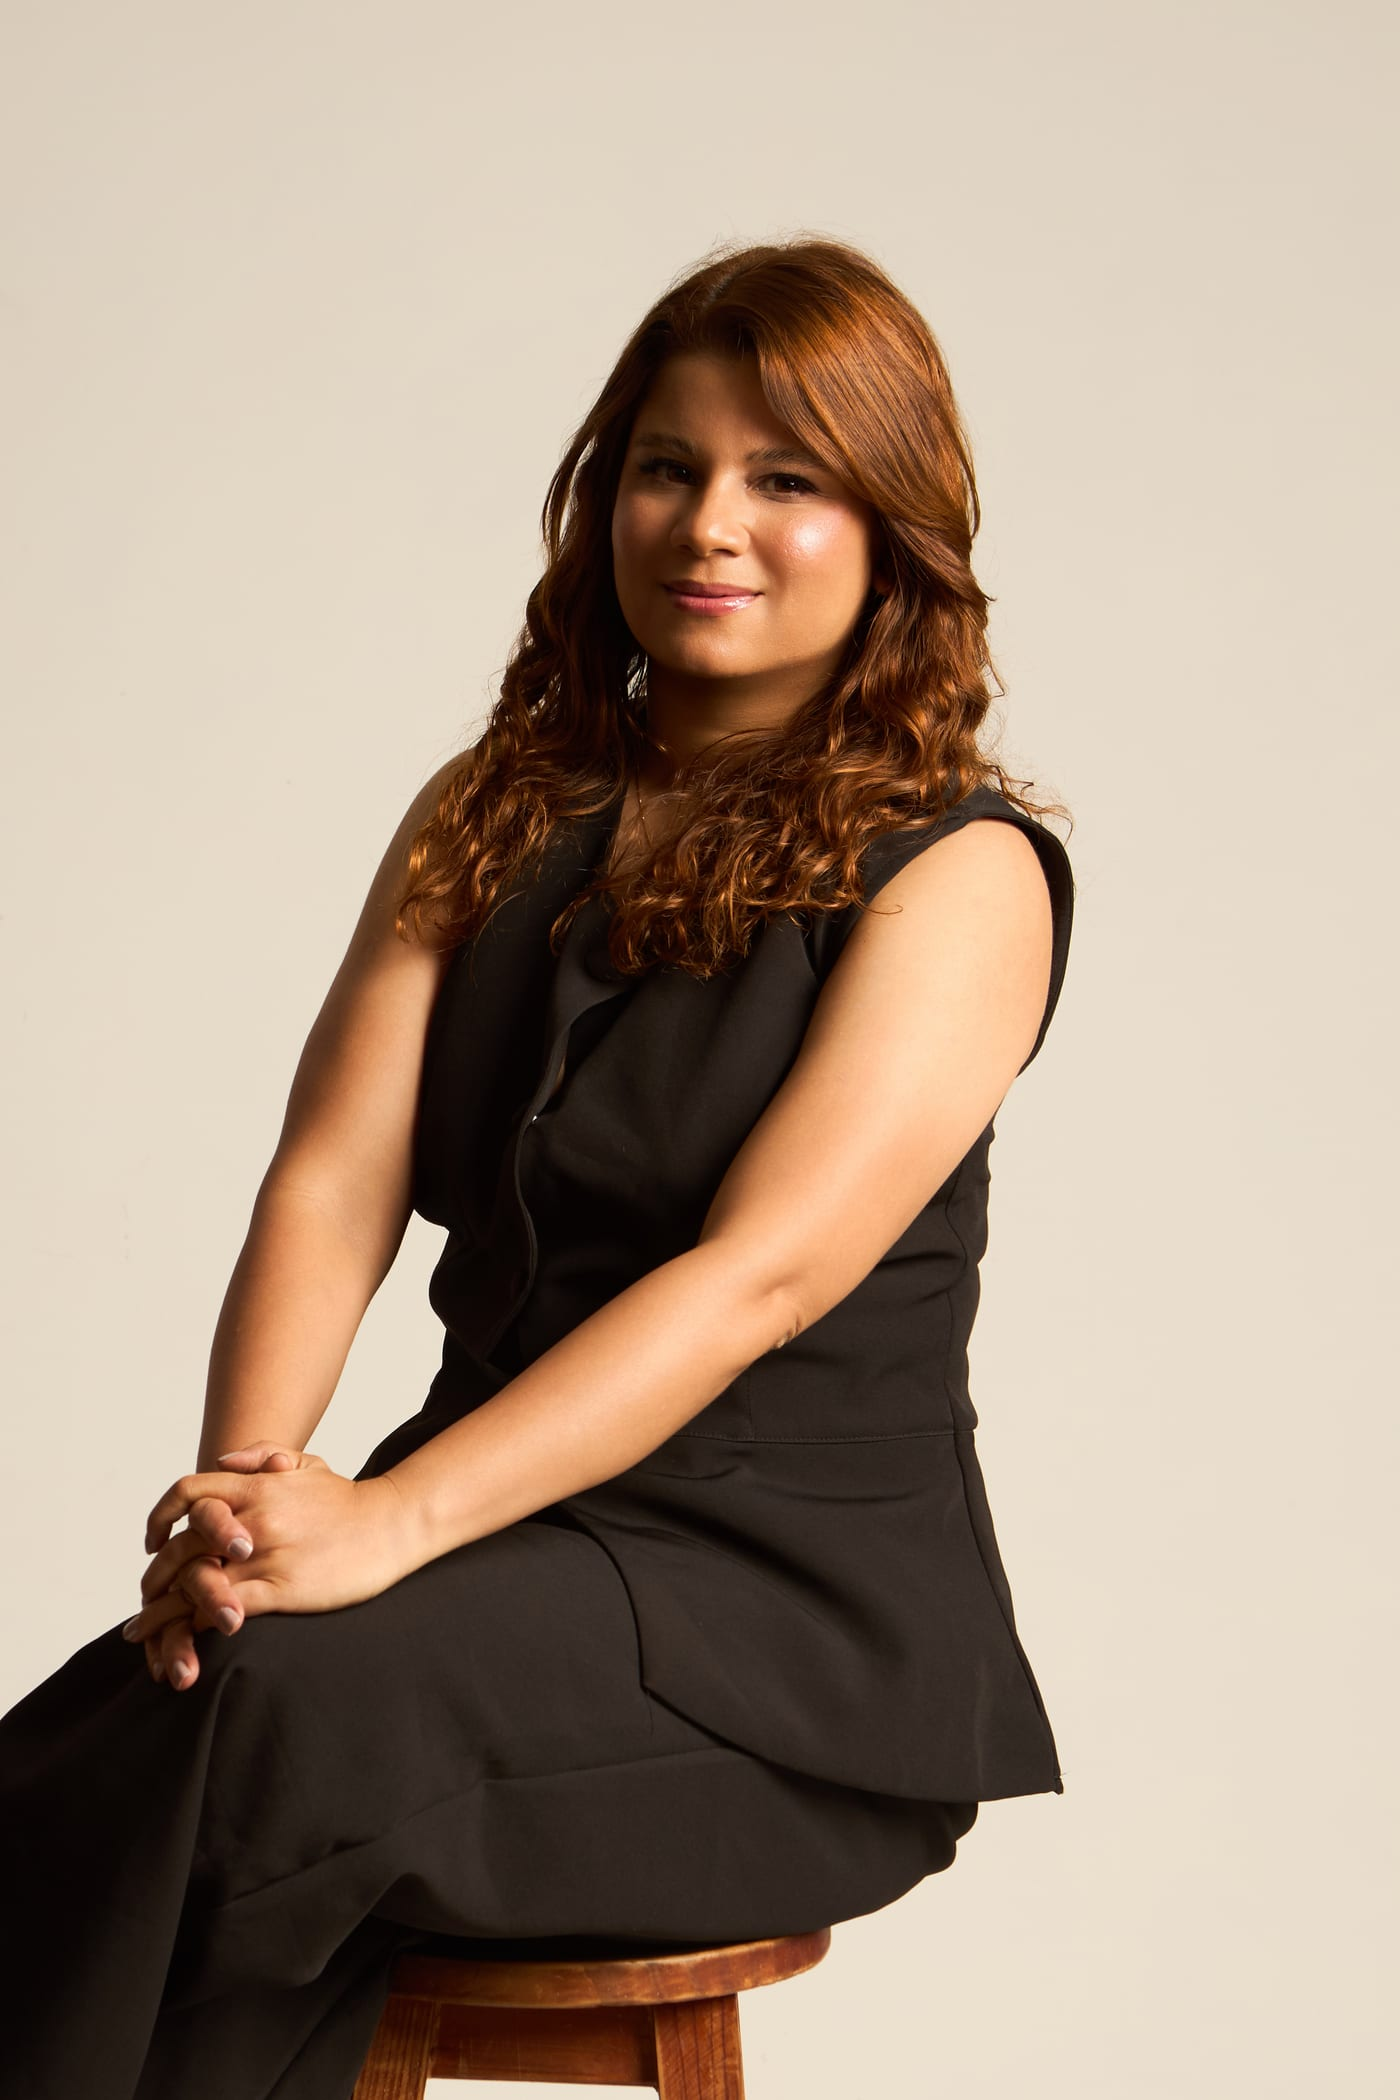
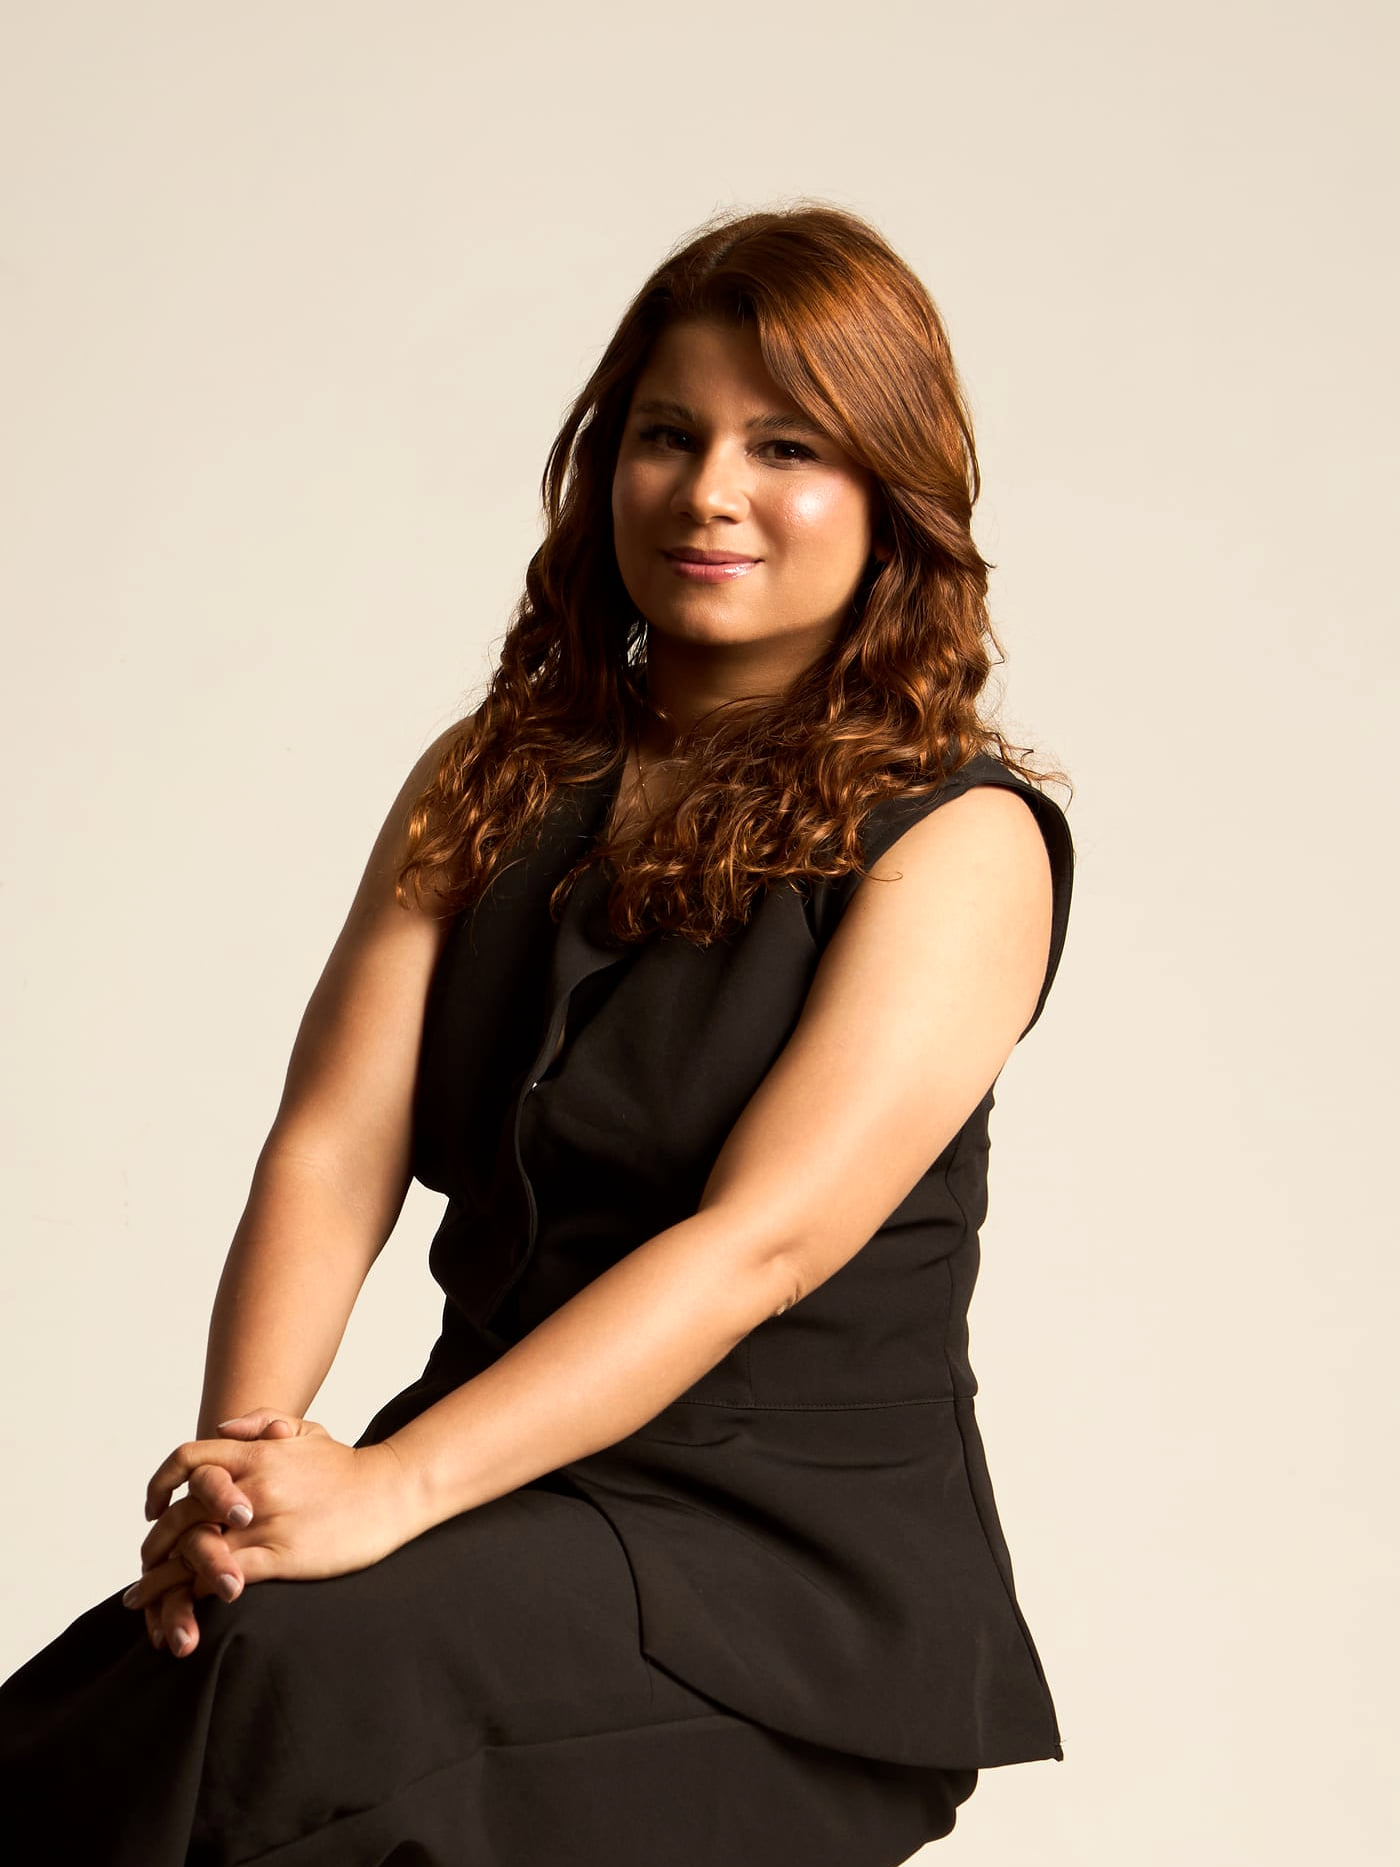
Cropar fotos do time no servidor para alinhar rostos a 25% do topo
Problema: CSS scale/object-position não conseguia alinhar rostos porque as 3 fotos
têm o rosto em posições muito diferentes no original (Cláudio 14%, Grazi 22%, Thaise 10%).

Solução: cropar as fotos server-side com sharp (aspect 3:4) ancorando a linha dos
olhos em 25% do topo. Assim object-top + object-cover no frame já basta.

Script: scripts/crop-team.mjs. Backup dos originais em .backup/team-originals/.

Changed region(s): [[0.0, 0.0932, 0.7679, 1.0], [0.1229, 0.9941, 0.1843, 1.0]]

diff --git a/src/data/site.js b/src/data/site.js
@@ -149,8 +149,8 @@ export const team = [
     role: 'Biólogo · Cientista e Engenheiro de Dados',
     title: 'Doutor em Ciências Naturais',
     photo: '/team/claudio.jpg',
-    // Cláudio: foto de corpo inteiro; sobe o rosto para alinhar com os outros
-    imgPos: 'object-[50%_45%] scale-[1.35] origin-top',
+    // Fotos já cropadas (aspect 3:4) com rosto a ~25% do topo — ver scripts/crop-team.mjs
+    imgPos: 'object-top',
     bio: 'Experiência em ETL, modelagem estatística, machine learning, pipelines de dados e visualização analítica utilizando R, Python e Power BI. Atua no desenvolvimento de arquiteturas analíticas, automação de processos e soluções orientadas por dados aplicadas a sistemas complexos.',
     tags: ['R', 'Python', 'Power BI', 'Machine Learning', 'Pipelines'],
   },
@@ -159,8 +159,7 @@ export const team = [
     role: 'Bióloga · Cientista e Engenheira de Dados',
     title: 'Doutora em Ecologia',
     photo: '/team/graziella.jpg',
-    // Graziella: referência de altura. Mantida.
-    imgPos: 'object-[50%_8%]',
+    imgPos: 'object-top',
     bio: 'Atua com ETL, modelagem estatística, automação de processos, inteligência analítica e desenvolvimento de soluções aplicadas a dados ambientais, integrando ciência e tecnologia para construção de fluxos analíticos escaláveis.',
     tags: ['ETL', 'Estatística', 'Automação', 'Dados Ambientais'],
   },
@@ -169,8 +168,7 @@ export const team = [
     role: 'Bióloga · Cientista e Analista de Dados',
     title: 'Doutora em Ecologia',
     photo: '/team/thaise.jpg',
-    // Thaise: descer rosto para alinhar com a altura da Grazi
-    imgPos: 'object-[50%_0%] scale-[0.92] origin-top',
+    imgPos: 'object-top',
     bio: 'Experiência em gestão de dados e metadados, modelagem estatística, automação analítica e desenvolvimento de relatórios técnicos. Atua na organização e estruturação de processos analíticos orientados por dados.',
     tags: ['Metadados', 'Modelagem', 'Relatórios', 'Estruturação'],
   },
